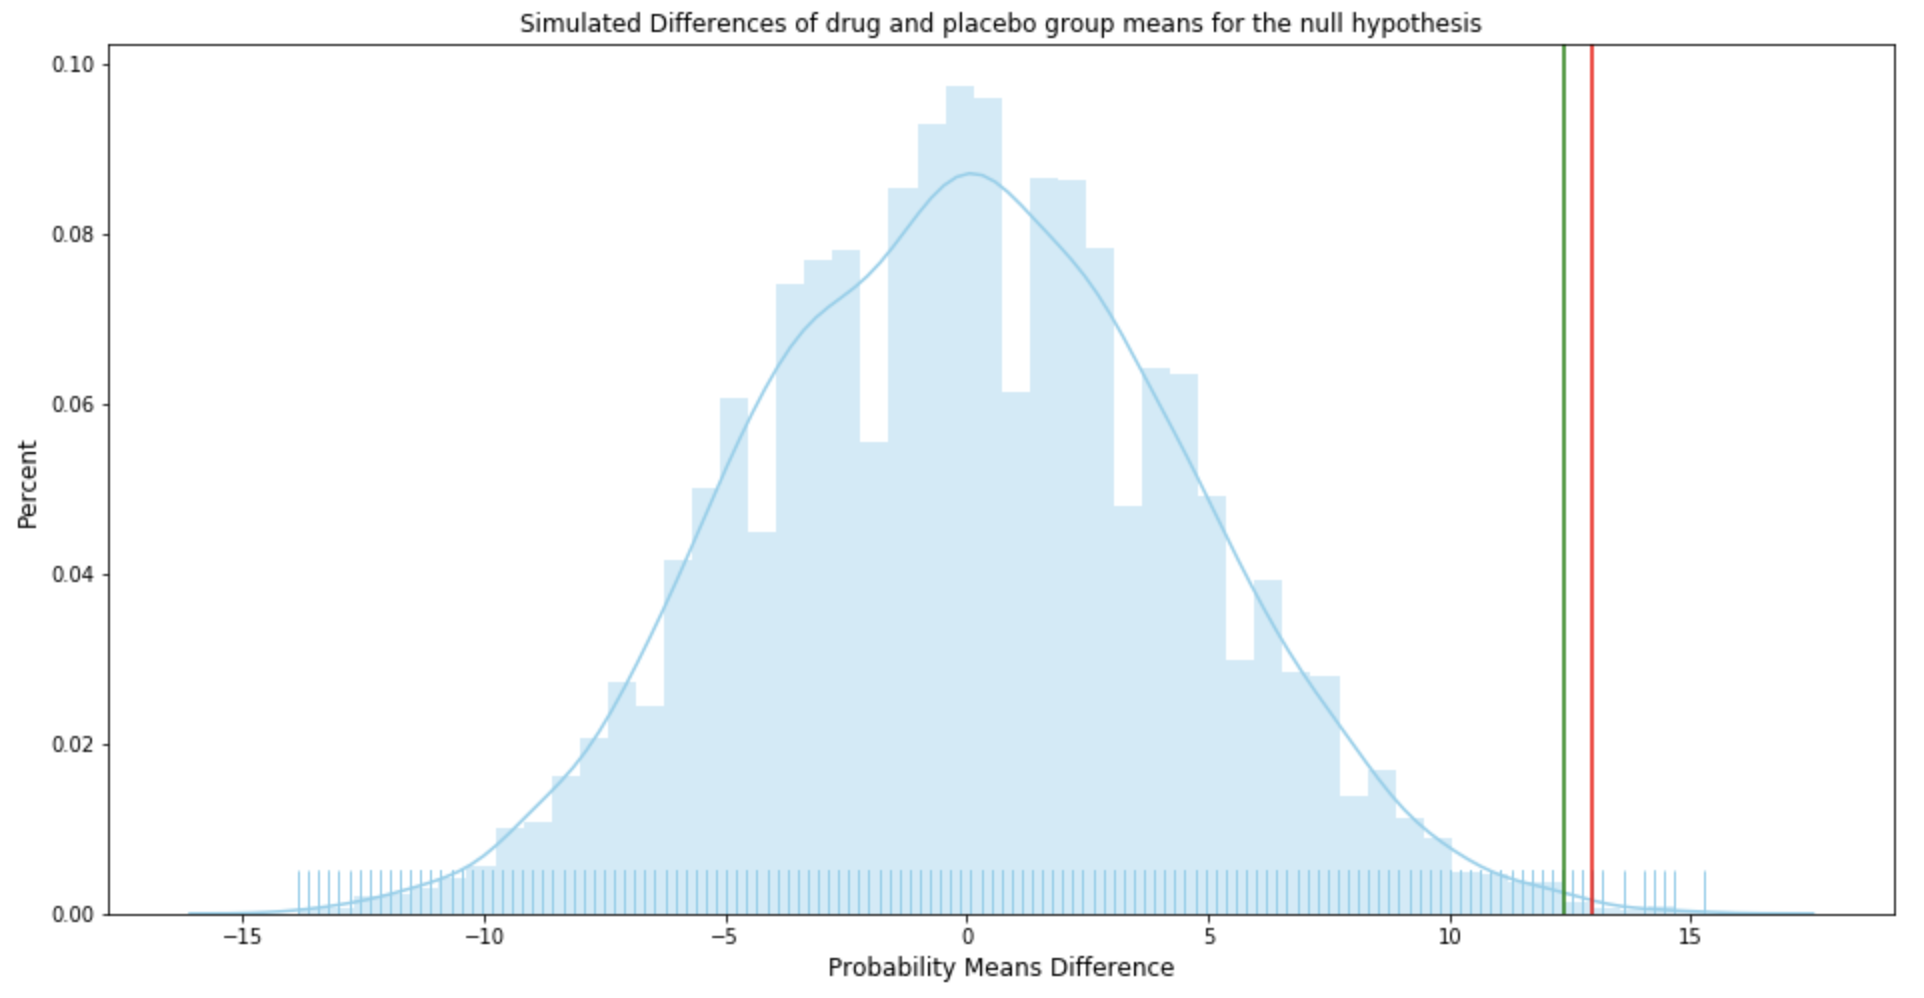
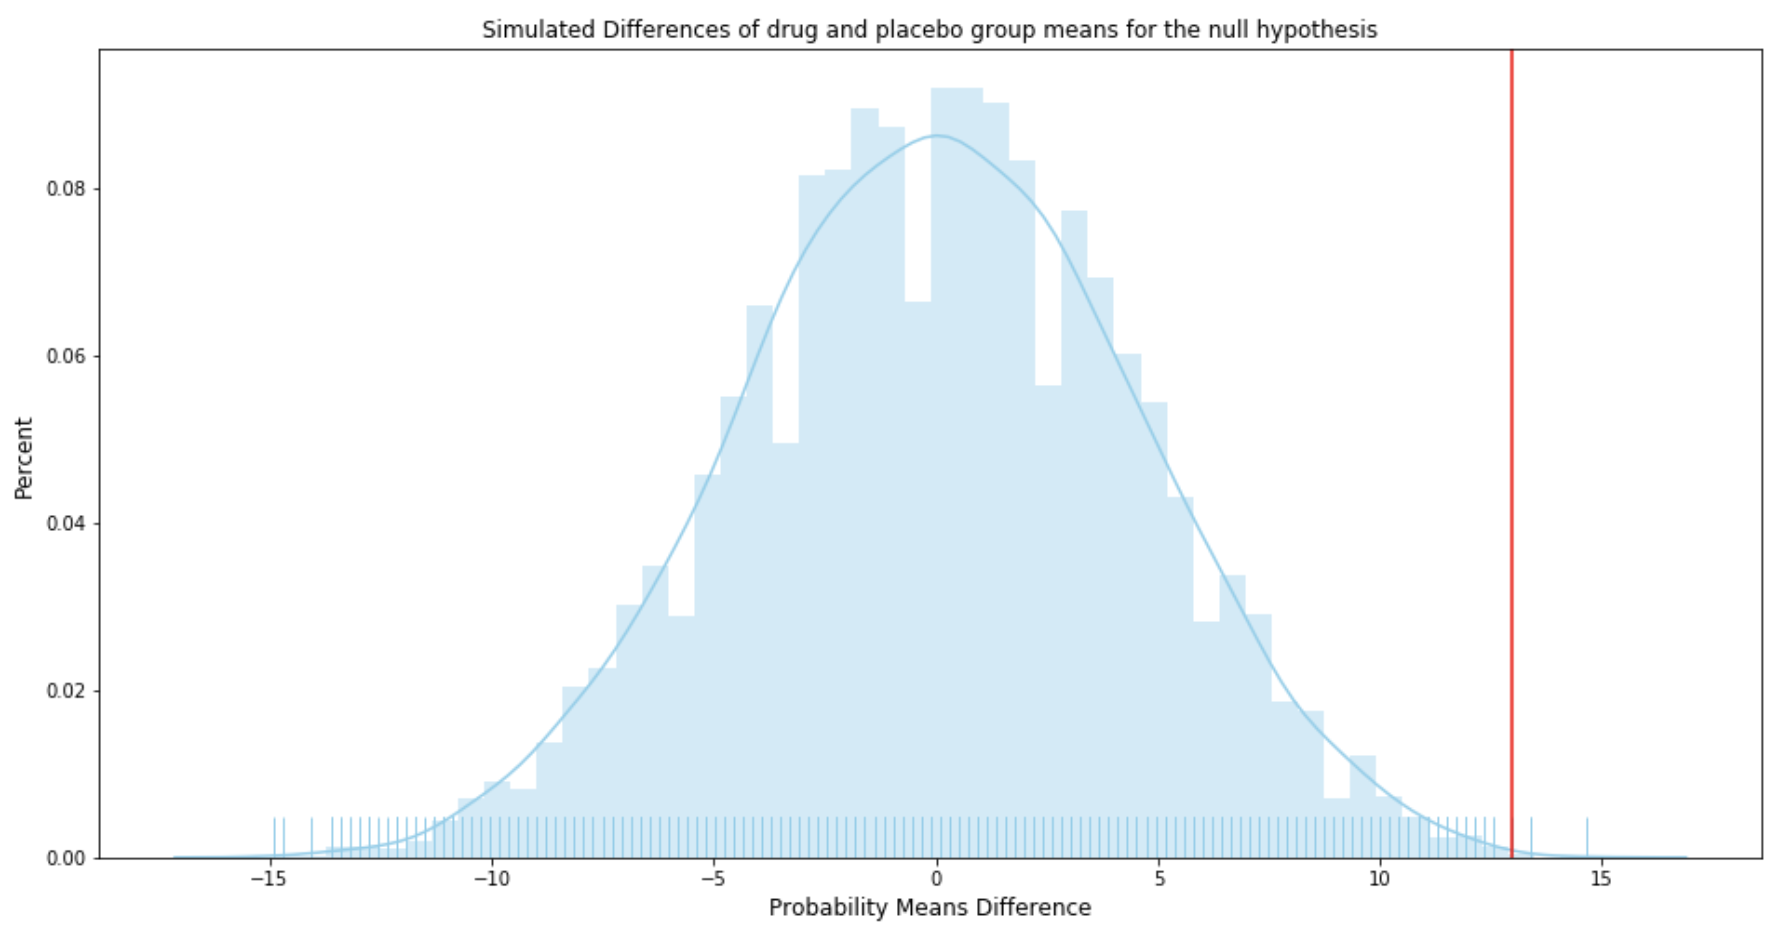
Update

diff --git a/README.md b/README.md
@@ -173,7 +173,7 @@ placebo = [54, 51, 58, 44, 55, 52, 42, 47, 58, 46]
 alpha = 0.01
 ```
 
-For our groups, we observe the means difference of 12.97 but the question is if this difference is statistically significant and the drug works? Is the difference only between the two samples (drug and placebo) or we could infere that this would be also valid for the entire patients population?
+For our groups, we observe `the means difference of 12.97` but the question is if this difference is statistically significant and the drug works? Is the difference observed only between the two samples (drug and placebo) or we could infere that this would be also valid for the entire patients population?
 
 ```python
 # Means difference of the samples
@@ -184,7 +184,7 @@ np.mean(drug) - np.mean(placebo)
 
 ### Analytical Method
 
-First, let's try to answer to this question analytically. For that we will use T-Student sampling distribution and calculate t-test statistic. Statistical tests usually come with some assumptions, and t-test is not an exception.
+First, let's try to answer to this question analytically. For that **we will use T-Student sampling distribution and calculate t-test statistic**. Statistical tests usually come with some assumptions, and t-test is not an exception.
 
 T-test assumptions:
 
@@ -193,9 +193,9 @@ T-test assumptions:
 3. Samples should be of the same size.
 4. At best there should be more than 20 observations in a sample.
 
-Assumtions 3 and 4 are quick to deal with. Our first sample (drug) has 9 observations and the second (placebo) 10. They are not equal in size but close, so we can live with it. The small number of observations (less than 20) may impact the quality of t-test outcome but we have no other choice but to try (we do not have any other observations).
+Assumptions 3 and 4 are quick to deal with. Our first sample (drug) has 9 observations and the second (placebo) 10. They are not equal in size but close, so we can live with it. The small number of observations (less than 20) may impact the quality of t-test outcome but we have no other choice but to try (we do not have any other observations).
 
-To check if assumption one is is met we will use Shapiro-Wilk test designed specifically for samples containing less than 50 observations. For that we will use a helper function `normaltest()` which utilizes `shapiro()` function of the `scipy.stats` module.
+To check if assumption one is met, we will use **Shapiro-Wilk test** designed specifically for samples containing less than 50 observations. For that we will use a helper function `normaltest()` which utilizes `shapiro()` function of the `scipy.stats` module.
 
 ```python
 from scipy import stats
@@ -234,7 +234,7 @@ Our samples come from a normal distribution, although it is difficult to say tha
 
 Now it is time to deal with the second assumtion, stating that our samples should come from populations with equal variances. It is important to mention that we are not checking variances of the samples (their variances are not equal) but if they come from populations with equal variances. 
 
-To check if the second assumption is valid, we will use `varsequals()` helper function utilizing `bartlett()` function from `scipy.stats` module. The function uses Bartlett's test which answers the question if our samples come from populations with equal variances.
+To check if the second assumption is valid, we will use `varsequals()` helper function utilizing `bartlett()` function from `scipy.stats` module. The function uses **Bartlett's test** which answers the question if our samples come from populations with equal variances.
 
 ```python
 def varsequals(sample1, sample2, alpha=0.01):
@@ -244,14 +244,13 @@ def varsequals(sample1, sample2, alpha=0.01):
     Reference: https://docs.scipy.org/doc/scipy-0.14.0/reference/generated/scipy.stats.bartlett.html
     ''' 
     T, p = stats.bartlett(sample1, sample2)
-    #print("T = {:g}".format(T))
-    #print("p = {:g}".format(p))
+    
     if p < alpha:  # null hypothesis: all input samples are from populations with equal variances
         print("Not all input samples are from populations with equal variances.")
     else:
         print("All input samples are from populations with equal variances.")
 ```
-It seems that our second assumption is also valid.
+It seems that our second assumption is also valid:
 
 ```python
 varsequals(drug, placebo)
@@ -259,7 +258,7 @@ varsequals(drug, placebo)
 All input samples are from populations with equal variances.
 ```
 
-Now, we can perform our test and check if the mean difference of our two samples is statistically significant. The remaining question is if our samples are expected to have been drawn from the same population. To do this, we will do a t-test using `ttest_ind()` function from `scipy.stats` module.
+Now, we can perform our test and check if the mean difference of our two samples is statistically significant. The remaining question is if our samples are expected to have been drawn from the same population. To do this, we will do a **t-test** using `ttest_ind()` function from `scipy.stats` module.
 
 ```python
 # We assume all observations are independent
@@ -269,7 +268,7 @@ print('t={:.4f}, p={:.4f}'.format(t_stat, p))
 t=3.9357, p=0.0011
 ```
 
-The t-test statistic value is 3.9357 and our p-value is 0.0011. The p-value is a probability of obtaining a result equal to or more extreme than was observed in the data. If our p-value (0.0011) is less than our alpha (0.01) than we can reject our null hypothesis (that there is no difference between drug and placebo) and assume the alternative hypothesis that the drug is effective.
+The `t-test statistic value is 3.9357` and our `p-value is 0.0011`. The **p-value** is a probability of obtaining a result equal to or more extreme than was observed in the data. If our p-value (0.0011) is less than our alpha (0.01 / 2 = 0.005) than we can reject our null hypothesis (that there is no difference between drug and placebo) and assume the alternative hypothesis that the drug is effective.
 
 ```python
 # Interpret via p-value
@@ -281,7 +280,9 @@ else:
 Reject the null hypothesis that the means are equal.
 ```
 
-We can also confirm our finding calculating degrees of freedom,
+The p-value returned by the `ttest_ind()` implementation of t-test is two-tailed by design (if we were testing one-tailed hypothesis, is such case we would have to divide the p-value by 2). Again, in our case the p-value is far lower than our alpha, so we can conclude that we can reject the null hypothesis.
+
+We can also confirm our finding calculating the `degrees of freedom`,
 
 ```python
 # Calculate degrees of freedom
@@ -291,7 +292,7 @@ df
 17
 ```
 
-and a critical value.
+and the `critical value`.
 
 ```python
 # Calculate the critical value (two-tailed test)
@@ -312,9 +313,9 @@ else:
     
 Reject the null hypothesis that the means are equal.
 ```
-To summarize the analytical approach, we proved that we have sufficient evidence to reject the null hypothesis which means that the drug works.
+**To summarize the analytical approach**, we proved that we have sufficient evidence to reject the null hypothesis which means that the drug works.
 
-### Computational Method
+### Computational Method (Permutation Testing)
 
 Now it is time to check if the drug is effective in a computational way. We will be using our hypothesis definition but instead of doing a statistical test and satisfying its assumption we assume the null hypothesis is true, so there is no difference in the groups.
 
@@ -328,7 +329,9 @@ print(f"{observed_diff:.2f}")
 12.97
 ```
 
-If there is no difference in means of the treatment and control groups, we can merge the observations from both groups and then check how likely is that the observed_diff value or greater appears. We will now simulate the mean differences doing random groups assignment from the common pool (drug and placebo combined) many times.
+If we assume that there is no difference in means of the treatment and control groups, we can merge the observations from both groups and then check how likely is that the observed_diff value or greater appears (we will calculate an absolute value of observed_diff to cover two-tailed case).
+
+We will now simulate the mean differences doing random groups assignment from the common pool (drug and placebo combined) many times.
 
 ```python
 from statistics import mean
@@ -355,28 +358,32 @@ for _ in range(n):
     
     # Increase counter if the simulated mean difference
     # is equal or greater from the observed mean difference
-    count += (shuffled_diff >= observed_diff)
+    # abs() as we test two-tailed alternative hypothesis
+    count += (abs(shuffled_diff) >= observed_diff)
 ```
+
 If the null hypothesis is true (the drug does not work, on average group means are close to 0) we should observe many occurences of mean differences equal or greater to observed_diff. If not, then we can safely reject the null hypothesis (as the observed_diff would be exceptional for samples drawn from the same distribution).
 
-Our simulation result shows that 12 times on 10,000 simulated mean difference was equal or greater then observed one. According to our logic, if such difference was common we would get the difference at least 12.97 many more times.
+Our simulation result shows that 16 times on 10,000 simulated mean difference was equal or greater then observed one (every time we run out test we may get a little bit different number). According to our logic, if such difference was common we would get the difference at least 12.97 many more times.
 
 ```python
 print(f"""{n:,} label reshufflings produced only {count} instances 
 with a difference at least as extreme as the observed difference of {observed_diff:.2f}.""")
 
-10,000 label reshufflings produced only 12 instances 
+10,000 label reshufflings produced only 16 instances 
 with a difference at least as extreme as the observed difference of 12.97.
 ```
-We can also calculate a p-value easily. To recall, p-value is a chance of observing the current difference when there is truly no difference. In other words it is a probability of obtaining a result equal to or more extreme than was observed in the data.
+
+We can also calculate a **p-value** easily. To recall, **p-value** is a chance of observing the current difference when there is truly no difference. In other words it is a probability of obtaining a result equal to or more extreme than was observed in the data.
 
 ```python
 p = count / n
 p
 
-0.0012
+0.0016
 ```
-The p-value is only 0.0012 and is far less than our significance level (alpha) established at 0.01 level.
+
+The p-value is only 0.0016 and is far less than our significance level (alpha) established at 0.01/2 = 0.005 level. It is important to notice, that this p-value value has nothing to do with the p-value calculated with the analytical method.
 
 ```python
 # Interpret via p-value
@@ -390,9 +397,6 @@ Reject the null hypothesis that the means are equal.
 One of the nice "side effects" of computational approach is that doing simulations we gather data we can use to interpret our result visually.
 
 ```python
-# Find the quantile for the alpha/2 cutoff (two-tailed test)
-cv = np.max(simulated_means) - stats.t.ppf(1.0 - alpha/2, df)
-
 simulated_means = np.asarray(simulated_means)
 plt.figure(figsize=(16, 8))
 sns.distplot(simulated_means, color="skyblue", kde=True, hist=True, rug="True")
@@ -400,18 +404,15 @@ plt.title("Simulated Differences of drug and placebo group means for the null hy
 plt.xlabel("Probability Means Difference", fontsize=12)
 plt.ylabel("Percent", fontsize=12)
 
-# Critical value
-plt.axvline(cv, color='g');
-
 # Observed mean difference
 plt.axvline(observed_diff, color='r'); 
 ```
 
 <center><img src="images/2019-04-12-003.png" width="100%"/></center>
 
-The picture above shows our simulated distribution of mean difference. The green vertical line represents the critical value and the red one the mean difference observed between drug and placebo groups. We clearly see that it is very unlikely that drug and placebo samples come from the same distribution (red line).
+The picture above shows our simulated distribution of mean difference. The red vertical line represents the mean difference observed between drug and placebo groups (observed_diff). We can clearly see that it is very unlikely that drug and placebo samples come from the same distribution (the red line at the very end of the distribution tail).
 
-To summarize the computational approach, we can say that it we have sufficient evidence to reject the null hypothesis, and we conclude that the drug is effective.
+**To summarize the computational approach**, we can say that it we have sufficient evidence to reject the null hypothesis, and we conclude that the drug is effective.
 
 
 ### Analytical vs. Computational
@@ -424,7 +425,7 @@ The analytical and computational approaches are in general very similar except t
 		- Set alpha (the threshold for rejecting differences).
 	-  Collect data.
 	-  **Pick a sampling distribution, calculate a test statistic, remember about assumptions.**
-	-  Calculate p-value.
+	-  Calculate p-value **(and if needed, also the critical value)**.
 	-  Draw conclusion.
 
 - Computational approach
